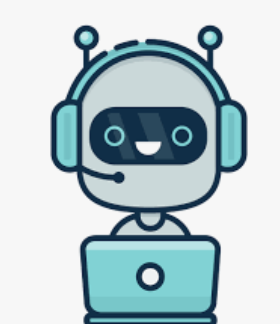
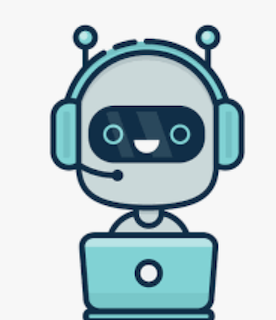
changes in image

diff --git a/main.py b/main.py
@@ -40,9 +40,9 @@ bot = ChatBot("My Bot")
 main = Tk()
 
 main.geometry("650x650")
-main.title("Chat BOT")
+main.title("CHAT BOT")
 
-image_given=PhotoImage(file="bot_image/final_bot.png")
+image_given=PhotoImage(file="bot_image/bot_img.png")
 
 photoL = Label(main,image=image_given)
 photoL.pack(pady=20)
